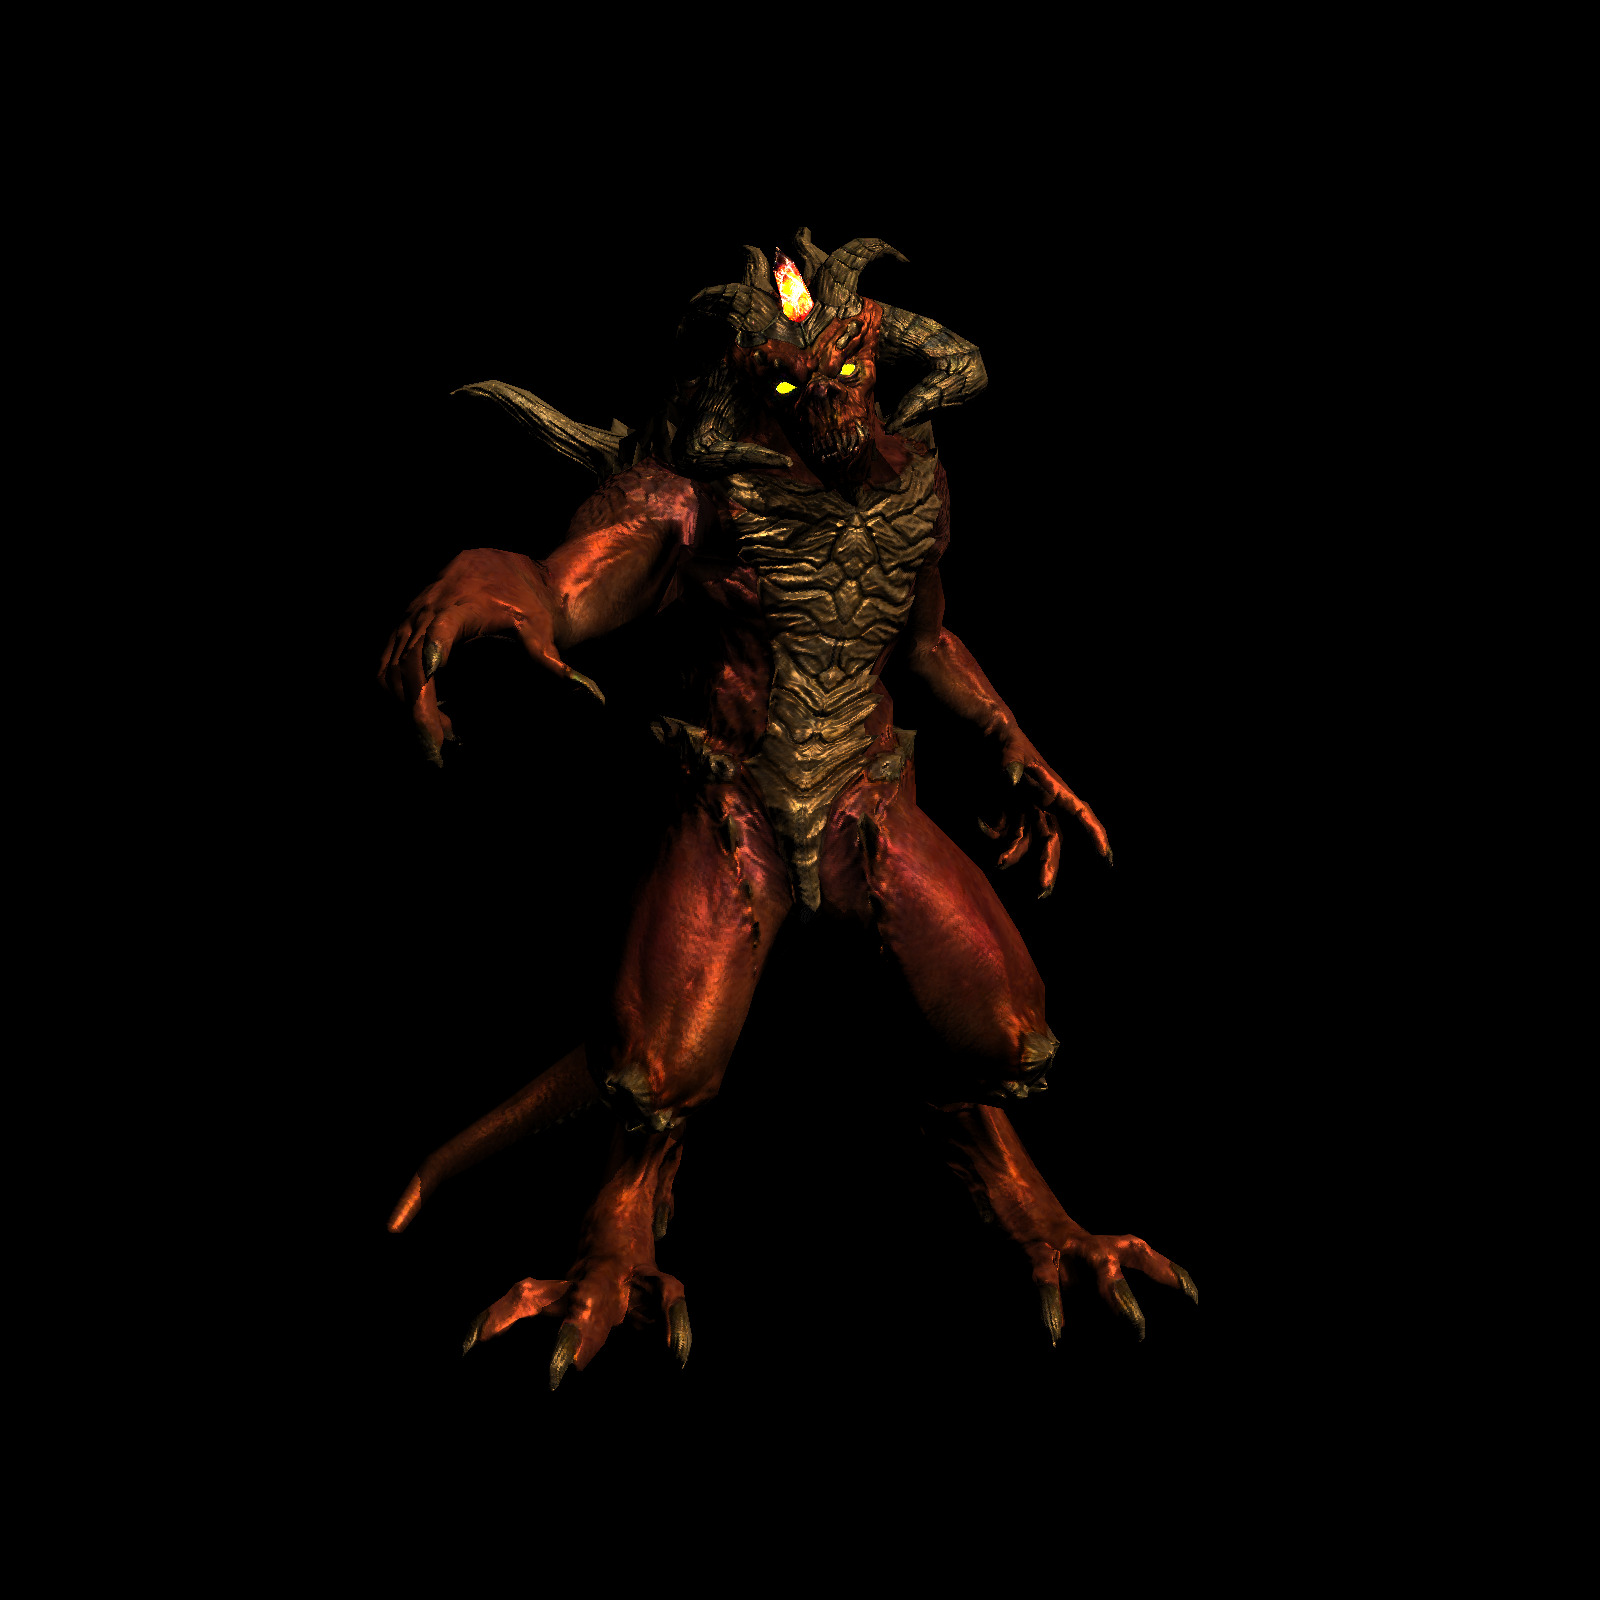
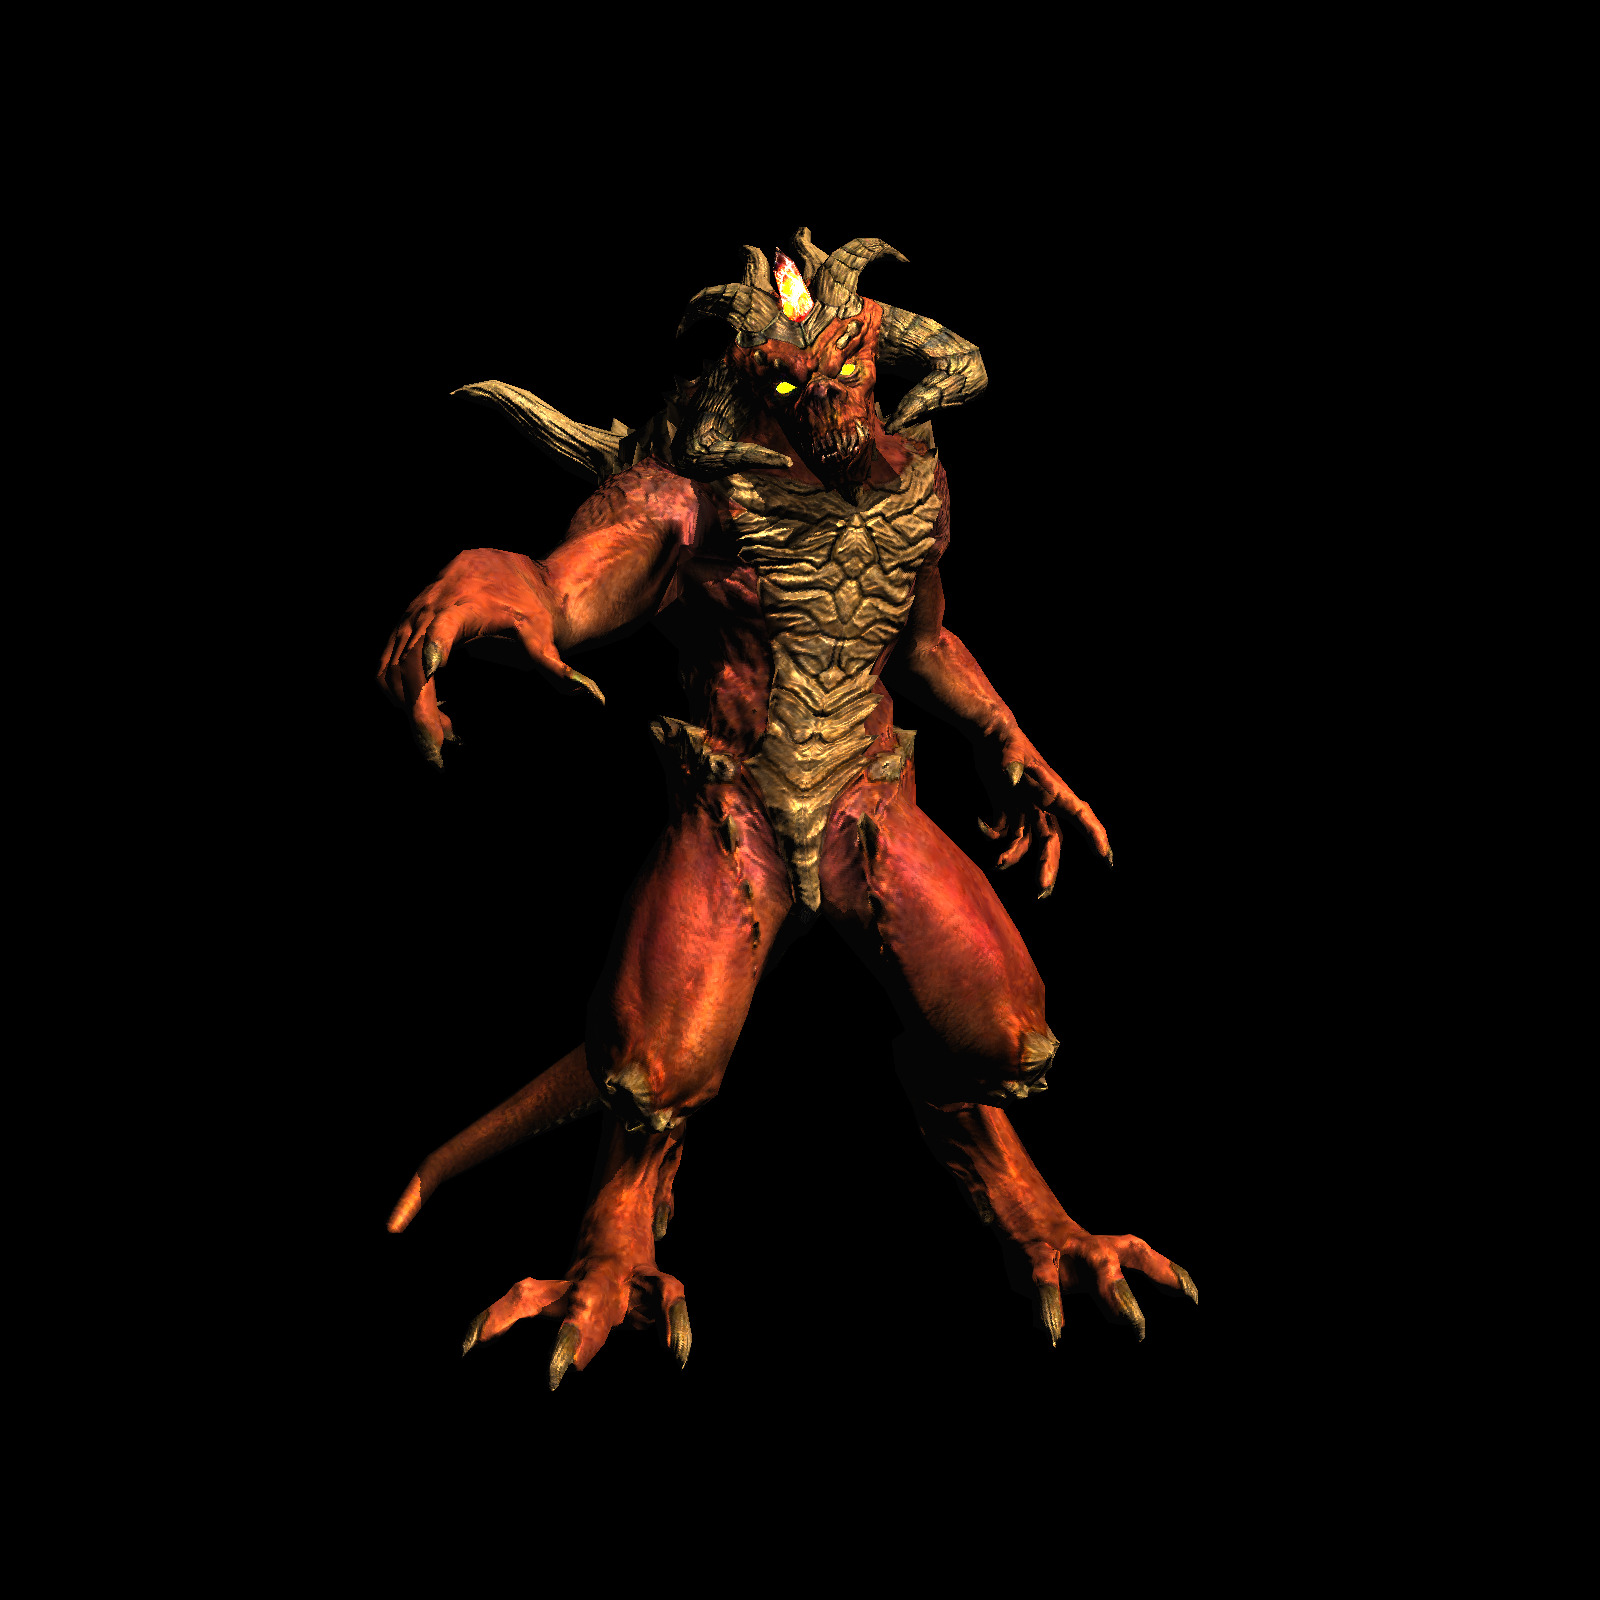
change variable name and change some constant

Changed region(s): [[0.2188, 0.125, 0.75, 0.875]]

diff --git a/ssloys_lecture/L7_2_glow/main.cpp b/ssloys_lecture/L7_2_glow/main.cpp
@@ -31,7 +31,8 @@ vec3 center = {0, 0, 0};
 vec3 up = {0, 1, 0};
 double lintensity = 1;
 double contrast = 1;
-double ambientcolor = 0; // TGAColor{5,5,5}
+double ambientcolor = 5; // TGAColor{5,5,5}
+double diffstrength_scale = 2;
 double specularstrength_scale = 1.5;
 double glowscale = 10;
 double *shadowbuffer = new double[imageh * imagew];
@@ -231,13 +232,13 @@ struct Shader : public IShader
       vec3 n = (B * model->normal(colorcoord)).normalized();
       vec3 l = proj<3, 4>(Projection * Modelview * embed<4, 3>(lightsource_direction)).normalized();
       vec3 r = ((n * -l * 2.) * n + l).normalized();
-      double strength = max<double>(0, (n * -l) * lintensity);
+      double diffstrength = max<double>(0, (n * -l) * lintensity);
       double specularstrength = pow(max<double>(0, r.z), specularcolor[0]);
 
-      if (strength < 0)
-         strength = 0;
-      else if (strength > 1)
-         strength = 1;
+      if (diffstrength < 0)
+         diffstrength = 0;
+      else if (diffstrength > 1)
+         diffstrength = 1;
       if (specularstrength < 0)
          specularstrength = 0;
       else if (specularstrength > 1)
@@ -247,9 +248,9 @@ struct Shader : public IShader
       color = diffusemap.get(ROUNDNUM(colorcoord.x * diffusemap.width()), ROUNDNUM(colorcoord.y * diffusemap.height()));
       TGAColor glow = glowmap.get(ROUNDNUM(colorcoord.x * glowmap.width()), ROUNDNUM(colorcoord.y * glowmap.height()));
 
-      for (int i = 0; i < 3; i++)
+      for (int i = 0; i < 4; i++)
       {
-         color[i] = max<double>(0, min<double>(255, glow[i]*glowscale + ambientcolor + color[i] * shadow_strength * (strength + specularstrength_scale * specularstrength)));
+         color[i] = max<double>(0, min<double>(255, glow[i] * glowscale + ambientcolor + color[i] * shadow_strength * (diffstrength * diffstrength_scale + specularstrength * specularstrength_scale)));
       }
       return 0;
    }
